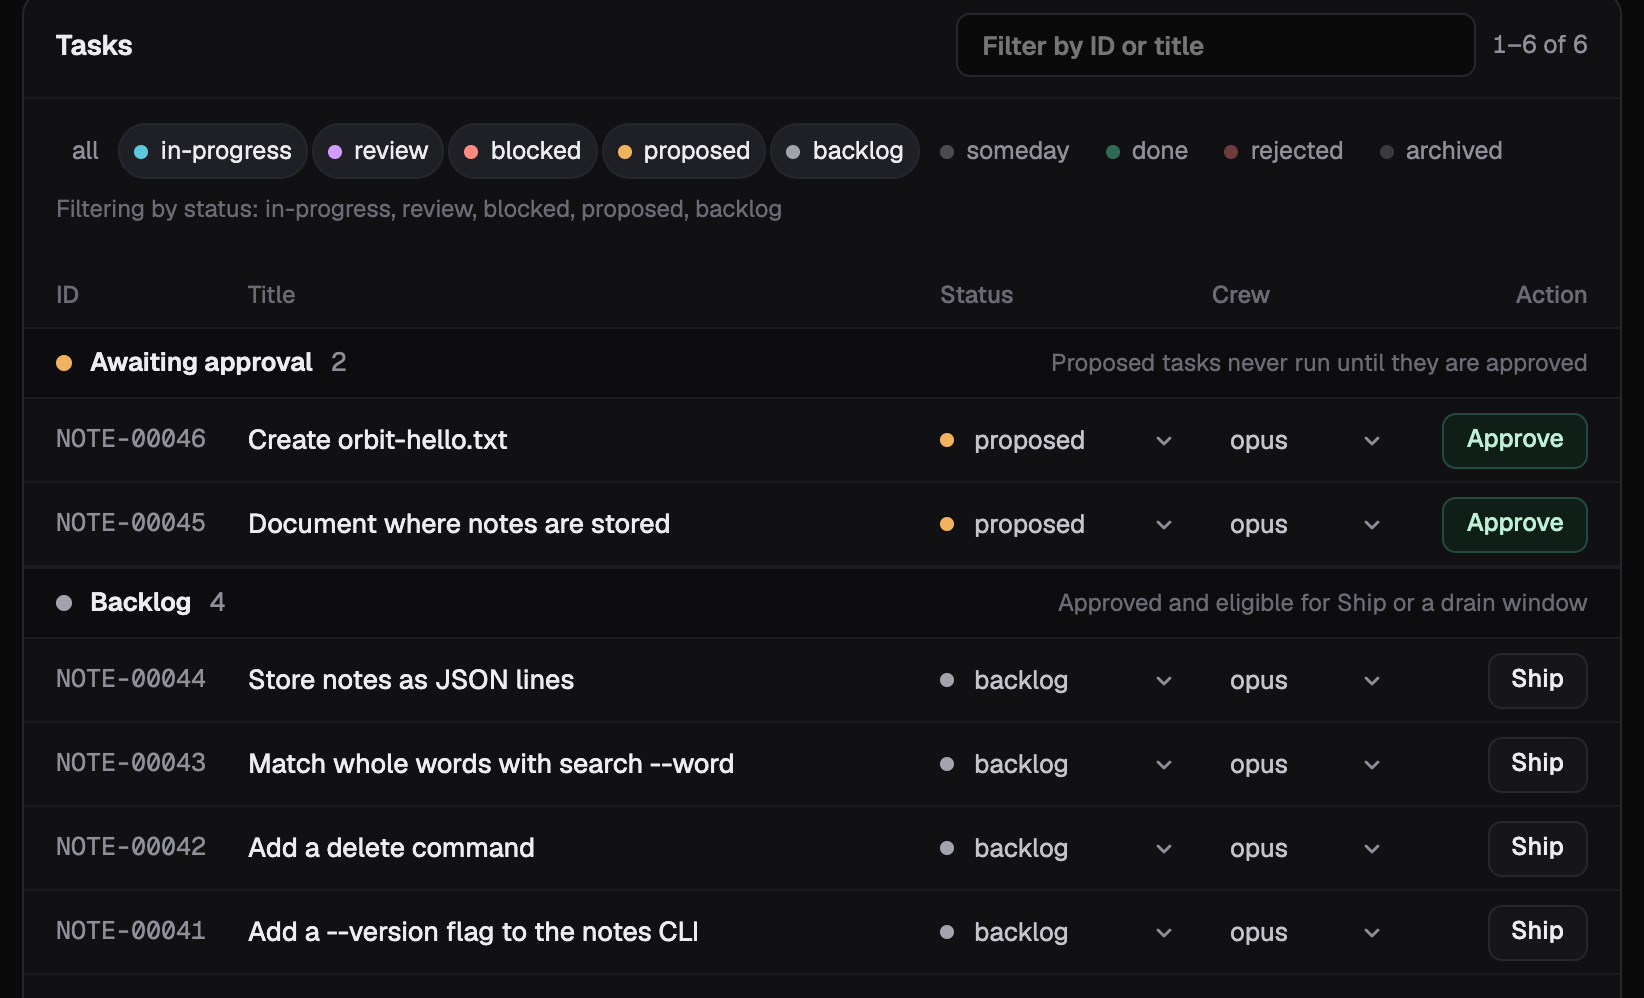
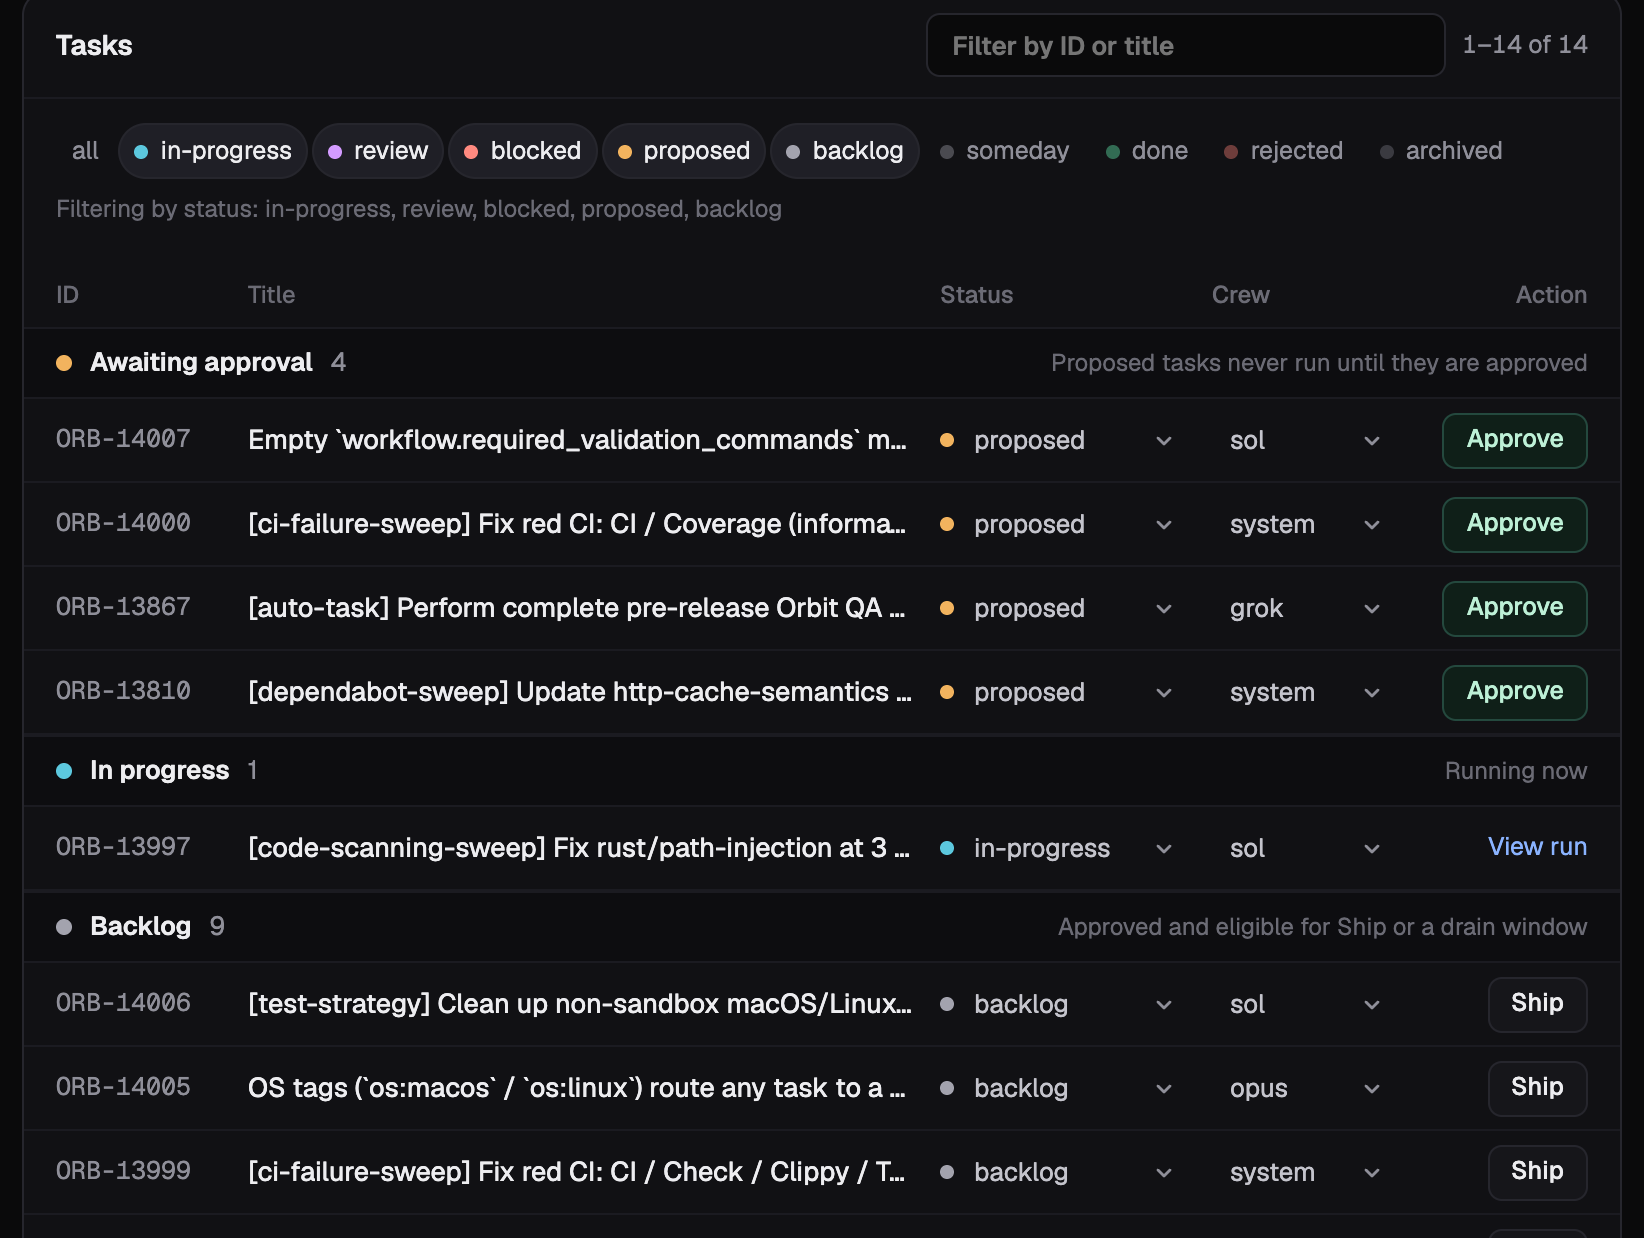
docs: real dashboard screenshots from ws_orbit; say who can approve a task
The screenshots now come from the live ws_orbit dashboard instead of a seeded
demo: the Tasks view, Approve and Ship, a real pull-request run's step
timeline (replacing the open-task shot, whose real descriptions don't crop),
the Drain card, and the routines. capture.mjs takes any dashboard URL and only
reads; the demo seeding script is gone.

The approval wording now matches the product: a task enters the backlog on an
explicit approval, from you or from your agent when you ask, and the task's
history records who. Before, three pages said only you could approve, which
nothing enforces.

diff --git a/website/scripts/dashboard-shots/README.md b/website/scripts/dashboard-shots/README.md
@@ -1,38 +1,33 @@
 # Dashboard screenshots
 
 The dashboard images in `website/src/assets/dashboard/` are captured from a
-throwaway demo workspace, not from anyone's real tasks. `shots.sh` builds that
-workspace in a temporary directory under its own Orbit root, seeds six tasks,
-serves the dashboard on a spare port, and runs `capture.mjs` against it.
-Nothing touches `~/.orbit` or your agent skill links, and the temporary
-directory is removed afterwards (`KEEP=1` keeps it).
+live dashboard by `capture.mjs`. It only reads: it switches tabs, sets the Runs
+filter to **All**, and opens one run's detail. It never presses Approve, Ship,
+Start, or any other action.
 
-Regenerate them after a release that changes the dashboard:
+Regenerate them after a release that changes the dashboard, with the dashboard
+running (`orbit web serve`, or `orbit web connect <host>`):
 
 ```bash
 npm --prefix /tmp/orbit-playwright install --no-save playwright
-NODE_PATH=/tmp/orbit-playwright/node_modules website/scripts/dashboard-shots/shots.sh
+NODE_PATH=/tmp/orbit-playwright/node_modules \
+  node website/scripts/dashboard-shots/capture.mjs \
+  "http://localhost:7878/?workspace=ws_orbit" website/src/assets/dashboard
 ```
 
-The capture uses your installed Google Chrome (`channel: "chrome"`) and the
-`orbit` on your `PATH`, so the images show that release's dashboard. Review the
-diff before committing: the pages show these images as they are.
-
-`--with-run` also ships one task through a real agent first and adds
-`dashboard-run-detail.png`. It needs a signed-in agent CLI and a few minutes,
-and it does not work from inside another sandbox (a nested `sandbox-exec`
-denies the worker's writes). No page uses that image yet.
-
-Each shot, and where it appears:
+The capture uses your installed Google Chrome (`channel: "chrome"`). Every crop
+stops above the log ticker along the bottom edge, which prints host paths.
+Before committing, look at each image for anything that shouldn't be public,
+such as a task title or a user name; the pages show them as they are.
 
 | File | Shows | Used on |
 |---|---|---|
 | `dashboard-tasks.png` | The whole Tasks view | Quickstart, Use the Dashboard |
 | `dashboard-approve-ship.png` | Awaiting approval with **Approve**, the backlog with **Ship** | First Task |
-| `dashboard-task-detail.png` | An open backlog task and its actions | First Task |
+| `dashboard-run-detail.png` | A successful `task_pr_pipeline` run and its step timeline | First Task |
 | `dashboard-drain-card.png` | The Drain card | Delivery Workflows, Use the Dashboard |
-| `dashboard-automation.png` | The seeded routines, all off | Use the Dashboard, Schedule Recurring Work |
+| `dashboard-automation.png` | Automation → Routines | Use the Dashboard, Schedule Recurring Work |
 
-The task data is real Orbit state for the demo workspace at capture time. The
-seed runs as `ORBIT_ACTOR=human:you`, and the shots stop above the log ticker,
-so no host user name or path appears.
+The current images show the `ws_orbit` workspace, captured 2026-10-04 from
+Orbit 0.26.0. Counts in them (failed runs, events, queue sizes) are that
+moment's, not live.

diff --git a/website/src/content/docs/getting-started/first-task.md b/website/src/content/docs/getting-started/first-task.md
@@ -37,10 +37,11 @@ Open it, read the description and criteria, and click **Approve**. It moves to
 `backlog`. If the task is wrong, click **reject**, or ask your agent to fix it
 first.
 
-![Two tasks under Awaiting approval with Approve buttons, above four backlog tasks with Ship buttons.](../../../assets/dashboard/dashboard-approve-ship.png)
+![The Tasks list: proposed tasks under Awaiting approval with Approve buttons, a task in progress with View run, and backlog tasks with Ship buttons.](../../../assets/dashboard/dashboard-approve-ship.png)
 
-You can also tell your agent to approve it. Either way, nothing reaches the
-backlog without your approval.
+You can also tell your agent to approve it. Either way, approval is an
+explicit step, recorded in the task's history; nothing approves a task on its
+own.
 
 ## 3. Ship it
 
@@ -48,7 +49,7 @@ Click **Ship** on the task. Orbit reserves the files the task touches, gives it
 an isolated worktree, and runs an agent in the sandbox to plan, execute, and
 review the change. Click **View run** to follow each step live.
 
-![An open backlog task: its description, acceptance criteria, context files, and history, with Ship, Comment, Reject, and Archive buttons.](../../../assets/dashboard/dashboard-task-detail.png)
+![A finished ship run: its job, state, and duration, and a step timeline from worktree through implement, validate, review gate, and push to pr_open.](../../../assets/dashboard/dashboard-run-detail.png)
 
 Asking your agent to ship it starts the same run. In the default `pr` ship
 mode, the run ends by opening a pull request.

diff --git a/website/src/content/docs/index.md b/website/src/content/docs/index.md
@@ -88,7 +88,7 @@ next: false
 <section class="orbit-guarantees" aria-label="What Orbit guarantees">
   <div class="orbit-guarantee">
     <div class="orbit-card-icon" aria-hidden="true"><svg viewBox="0 0 24 24" width="20" height="20" fill="none" stroke="currentColor" stroke-width="1.5" stroke-linecap="round" stroke-linejoin="round"><rect x="5" y="11" width="14" height="10" rx="2"/><path d="M8 11V7a4 4 0 0 1 8 0v4"/></svg></div>
-    <div><h2>Nothing runs until you approve</h2><p>New tasks land in <code>proposed</code>. Your agent can file as many as it likes; only your approval moves one into the backlog.</p></div>
+    <div><h2>Nothing runs until you approve</h2><p>New tasks land in <code>proposed</code>. Your agent can file as many as it likes; each one waits for an explicit approval, from you or from your agent when you tell it to.</p></div>
   </div>
   <div class="orbit-guarantee">
     <div class="orbit-card-icon" aria-hidden="true"><svg viewBox="0 0 24 24" width="20" height="20" fill="none" stroke="currentColor" stroke-width="1.5" stroke-linecap="round" stroke-linejoin="round"><circle cx="6" cy="6" r="2.5"/><circle cx="6" cy="18" r="2.5"/><circle cx="18" cy="12" r="2.5"/><path d="M6 8.5v7"/><path d="M8.5 6H12a3.5 3.5 0 0 1 3.5 3.5"/></svg></div>

diff --git a/website/src/content/docs/concepts/tasks.md b/website/src/content/docs/concepts/tasks.md
@@ -46,10 +46,11 @@ recorded in the task's status history.
 
 The two gates are independent:
 
-- **Entering the backlog is your decision.** No run, flag, or schedule
-  approves a `proposed` task, with one exception you opt into: an enabled CI
-  failure sweep promotes the repair tasks it files once its pilot validates
-  them.
+- **Entering the backlog takes an explicit approval.** You give it in the
+  dashboard or the CLI, or your agent gives it with `orbit.task.update` when
+  you ask; the task's history records who. No run, flag, or schedule approves
+  a `proposed` task, with one exception you opt into: an enabled CI failure
+  sweep promotes the repair tasks it files once its pilot validates them.
 - **Completing out of `review`** can instead be authorized per run with
   `--complete`. It never approves `proposed` work. See
   [Completing work with `--complete`](../../getting-started/workflows/#completing-work-with---complete).

diff --git a/website/README.md b/website/README.md
@@ -56,9 +56,9 @@ kept beside it as the source. Both come from the brand kit in the marketing repo
 (`brand/card.py --brand orbit --keep-svg`), as do the Bead mark in
 `src/assets/orbit-logo-*.svg` and `public/favicon.svg` (`brand/build.py`); change
 the generators there rather than editing these files by hand. The dashboard
-screenshots in `src/assets/dashboard/` come from
-[`scripts/dashboard-shots/`](scripts/dashboard-shots/README.md), which captures
-them from a throwaway demo workspace; rerun it when the dashboard changes.
+screenshots in `src/assets/dashboard/` are captured from a live dashboard by
+[`scripts/dashboard-shots/`](scripts/dashboard-shots/README.md); rerun it when
+the dashboard changes.
 
 Every published page is authored by hand under `src/content/docs/`, with two
 exceptions under `src/pages/`: `/changelog/` renders the repository's tracked

diff --git a/website/src/content/docs/how-to/recurring-work.md b/website/src/content/docs/how-to/recurring-work.md
@@ -64,7 +64,7 @@ Turn one on with its switch in **Automation → Routines**, or set
 this checkout on this machine. Start with worktree GC, and turn on the ship
 sweep last (see [Ship unattended](#ship-unattended)).
 
-![Automation → Routines: the five seeded routines, each switched off, with its cadence, next fire, and last run.](../../../assets/dashboard/dashboard-automation.png)
+![Automation → Routines: the next hour's fires on a timeline, then each routine with its switch, cadence, next fire, and last run.](../../../assets/dashboard/dashboard-automation.png)
 
 ```bash
 orbit routine list            # enabled, paused, next due, last fire

diff --git a/website/src/content/docs/how-to/dashboard.md b/website/src/content/docs/how-to/dashboard.md
@@ -256,7 +256,7 @@ the longer fields.
 ### Routines
 
 
-![Automation → Routines: the five seeded routines, each switched off, with its cadence, next fire, and last run.](../../../assets/dashboard/dashboard-automation.png)
+![Automation → Routines: the next hour's fires on a timeline, then each routine with its switch, cadence, next fire, and last run.](../../../assets/dashboard/dashboard-automation.png)
 A **Next hour** strip shows each routine due in the next hour: solid if it
 will fire, hollow if it is paused. A paused routine's slot is skipped, not
 queued. An enabled routine that cannot take effect shows a **blocked** pill.
